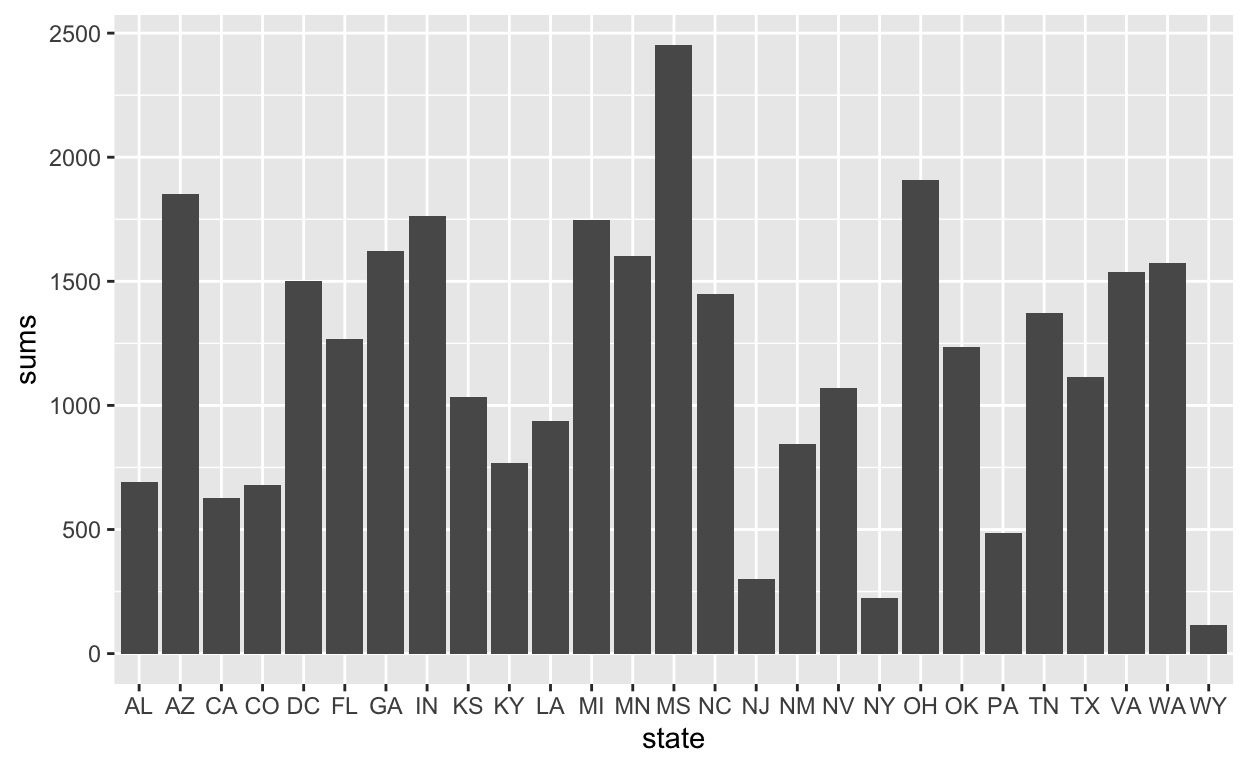
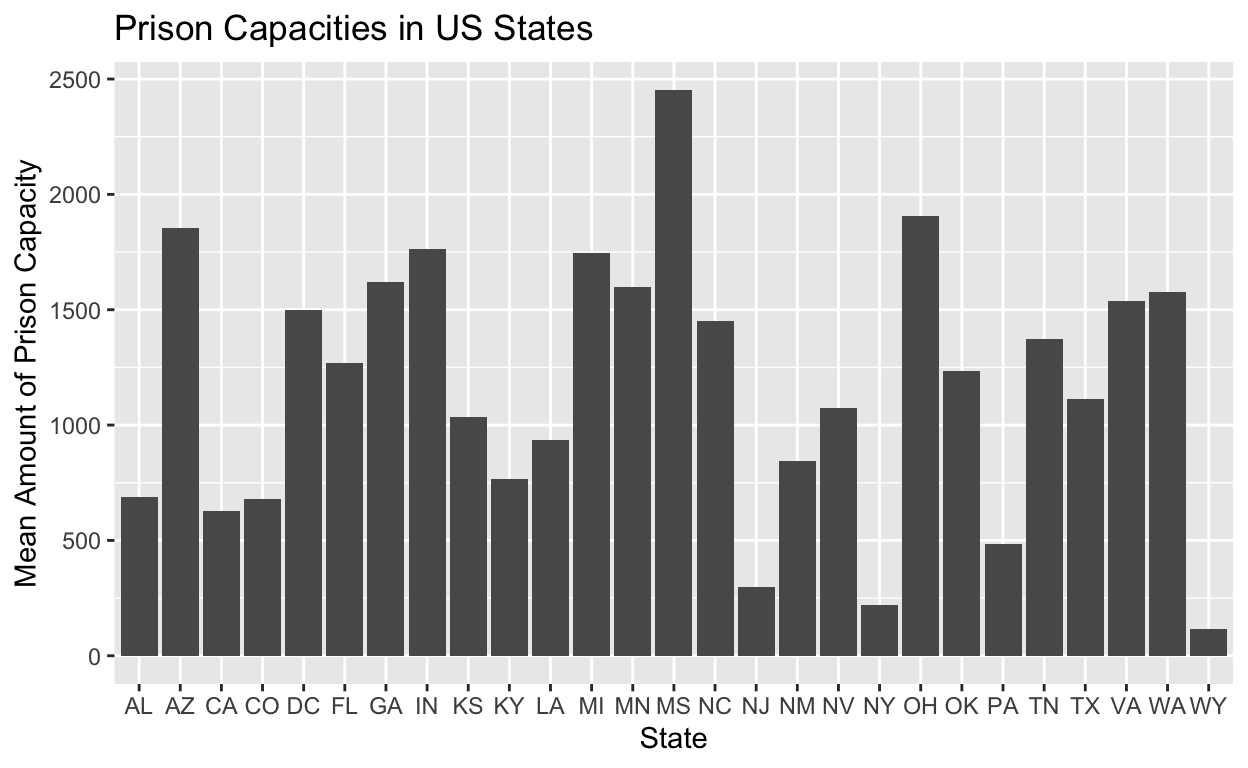
YEAHH

diff --git a/index.html b/index.html
@@ -1546,38 +1546,117 @@ code span.wa { color: #5e5e5e; font-style: italic; } /* Warning */
 <h2 id="historical-context">Historical Context:</h2>
 <p>In 1947, esteemed psychologists Dr. Kenneth Clark and Dr. Mamie Clark, the first African Americans to graduate from Columbia University with PhDs, conducted many doll tests and treated black youth at their independently founded center, the Northside Testing and Consultation Center. African American children in the area were found to have what the Clarks diagnosed as “Ingrained frustration,” which resulted from an early consciousness of race, understanding black or darker skin as inferior to white or lighter skin. These beliefs caused unruly behavior in young children like Peter, and the Clarks not only sought to discover the cause, but to find potential treatments. The Clarks found prejudice and discrimination like Jim Crow laws were damaging to the self-esteem of black youth, and therefore psychologically and emotionally harmed them. As a result of the Clarks’ studies, several treatments were found. These included increasing their literacy in addition to education surrounding African American culture.
 These findings align with recent statistics showing how black youth, especially boys, who weren’t reading at their reading level by 2nd grade would be almost guaranteed to be incarcerated before they turned 18. The legal suppression of literacy for black communities during slavery has left a legacy the youth are still fighting. In addition to that, the Clarks’ research reveals the intentional banning of books and curriculum that is representational and educational on topics of black culture is an attack on the psychological and mental health of black youth, since it was the very thing used as treatment in the study. It is important to note that for reasons like this, these tests were instrumental in revealing the horrors of academic racism in court cases like Brown v. Board of Education.
-In addition to working for a civil rights law firm, I have done organizing for prison abolitionist campaigns, and as a result of this and the reasons outlined above, I am interested in exploring data related to the school to prison pipeline, the education system, and criminal justice. This project will investigate the question: Is there any correlation between prison capacities and opinions on Critical Race Theory in US states.
-##</p>
-<p>##Research Question and Hypothesis:
-I will be analyzing the relationship between the capacities of prisons and people’s views on Critical Race Theory in school systems. We often discuss the school to prison pipeline, understanding statistics like Black males who aren’t reading at their grade level by 2nd grade, are almost guaranteed to fall victim to the prison system. With the recent attacks not just on education, but also on critical race theory, I am curious to see if there is any correlation between how much incarceration occurs in states/areas with a population who have adverse opinions on the teaching of slavery, civil war, and other topics.
-I will be using two data sets that are both loaded into R. One is a data set describing the presence of private prisons in the US throughout the last 30 years, their location, and their capacity. The other data set is a USA Today survey measuring wokeness, including a question about critical race theory.
+In addition to working for a civil rights law firm, I have done organizing for prison abolitionist campaigns, and as a result of this and the reasons outlined above, I am interested in exploring data related to the school to prison pipeline, the education system, and criminal justice. This project will investigate the question: Is there any correlation between prison capacities and opinions on Critical Race Theory in US states.</p>
+<h2 id="research-question-and-hypothesis">Research Question and Hypothesis:</h2>
+<p>I will be analyzing the relationship between the capacities of prisons and people’s views on Critical Race Theory in school systems. We often discuss the school to prison pipeline, understanding statistics like Black males who aren’t reading at their grade level by 2nd grade, are almost guaranteed to fall victim to the prison system. With the recent attacks not just on education, but also on critical race theory, I am curious to see if there is any correlation between how much incarceration occurs in states/areas with a population who have adverse opinions on the teaching of slavery, civil war, and other topics.
+I will be using two data sets that are both loaded into R. One is a data set describing the presence of private prisons in the US throughout the last 30 years, their location, and their capacity(<a href="https://www.annagunderson.com/data/private-prisons" class="uri">https://www.annagunderson.com/data/private-prisons</a>). The other data set is a USA Today survey measuring wokeness (<a href="https://ropercenter.cornell.edu/ipoll/study/31120147/questions#9af52f36-d878-442b-b4fd-11ee44a0ebb6" class="uri">https://ropercenter.cornell.edu/ipoll/study/31120147/questions#9af52f36-d878-442b-b4fd-11ee44a0ebb6</a>), including a question about critical race theory.
 The variables of the prison facilities analyzed will be the state and the design capacity of the prisons, and the variables of the other set will be the state and level of support. The outcome that will be analyzed is the amount of support in areas with high capacity prisons (more incarcerated individuals).
-I think I will find that the areas with the most prisons and with higher capacity prisons will result in less support for critical race theory, and I am interested in seeing if areas with more capacity will have less support than areas with more prisons.
-##</p>
-<p>##Prison Facilities Data Set
-| Name | Description |
-|——————-|————————————————————————————————————|
-|<code>facilityname</code> | Name of Facility |
-| <code>state</code> | The state the prison is found in abbreviated |
-| <code>year</code> | The year the data was collected |
-| <code>female</code> | Gender identity of the respondent (1 = female, 0 = male) |
-| <code>designcapacity</code> | Number of potential incarcerated |</p>
-<p>##Wokeness Survey Data Set
-| Name | Description |
-|——————-|————————————————————————————————————|
-| <code>BGC5_4</code> | Question of support for Critical Race Theory (Changed Strongly Support, Somewhat Support, Somewhat Oppose, and Strongly Oppose to 100, 75, 50, and 25) |
-| <code>ppstaten</code> | The state the respondent is from abbreviated |
-| <code>year</code> | The year the data was collected |
-| <code>female</code> | Gender identity of the respondent (1 = female, 0 = male) |
-| <code>designcapacity</code> | Number of potential incarcerated |
-##Combined Data Set
-| Name | Description |
-|——————-|————————————————————————————————————|
-| <code>ppstaten</code> | The state the respondant is from and the prison is found |
-| <code>n</code> | Mean value of support per state |
-| <code>prop_support</code> | proportion of support in regards to entire sample |
-| <code>sums</code> | Mean value of prison capacity per state |
-| <code>prop_capacity</code> | proportion of capacity in regards to entire sample |</p>
+I think I will find that the areas with the most prisons and with higher capacity prisons will result in less support for critical race theory, and I am interested in seeing if areas with more capacity will have less support than areas with more prisons.</p>
+<h2 id="prison-facilities-data-set">Prison Facilities Data Set</h2>
+<table>
+<colgroup>
+<col style="width: 14%" />
+<col style="width: 85%" />
+</colgroup>
+<thead>
+<tr class="header">
+<th>Name</th>
+<th>Description</th>
+</tr>
+</thead>
+<tbody>
+<tr class="odd">
+<td><code>facilityname</code></td>
+<td>Name of Facility</td>
+</tr>
+<tr class="even">
+<td><code>state</code></td>
+<td>The state the prison is found in abbreviated</td>
+</tr>
+<tr class="odd">
+<td><code>year</code></td>
+<td>The year the data was collected</td>
+</tr>
+<tr class="even">
+<td><code>female</code></td>
+<td>Gender identity of the respondent (1 = female, 0 = male)</td>
+</tr>
+<tr class="odd">
+<td><code>designcapacity</code></td>
+<td>Number of potential incarcerated</td>
+</tr>
+</tbody>
+</table>
+<h2 id="wokeness-survey-data-set">Wokeness Survey Data Set</h2>
+<table>
+<colgroup>
+<col style="width: 14%" />
+<col style="width: 85%" />
+</colgroup>
+<thead>
+<tr class="header">
+<th>Name</th>
+<th>Description</th>
+</tr>
+</thead>
+<tbody>
+<tr class="odd">
+<td><code>BGC5_4</code></td>
+<td>Question of support for Critical Race Theory (Changed Strongly Support, Somewhat Support, Somewhat Oppose, and Strongly Oppose to 100, 75, 50, and 25)</td>
+</tr>
+<tr class="even">
+<td><code>ppstaten</code></td>
+<td>The state the respondent is from abbreviated</td>
+</tr>
+<tr class="odd">
+<td><code>year</code></td>
+<td>The year the data was collected</td>
+</tr>
+<tr class="even">
+<td><code>female</code></td>
+<td>Gender identity of the respondent (1 = female, 0 = male)</td>
+</tr>
+<tr class="odd">
+<td><code>designcapacity</code></td>
+<td>Number of potential incarcerated</td>
+</tr>
+</tbody>
+</table>
+<h2 id="combined-data-set">Combined Data Set</h2>
+<table>
+<colgroup>
+<col style="width: 14%" />
+<col style="width: 85%" />
+</colgroup>
+<thead>
+<tr class="header">
+<th>Name</th>
+<th>Description</th>
+</tr>
+</thead>
+<tbody>
+<tr class="odd">
+<td><code>ppstaten</code></td>
+<td>The state the respondant is from and the prison is found</td>
+</tr>
+<tr class="even">
+<td><code>n</code></td>
+<td>Mean value of support per state</td>
+</tr>
+<tr class="odd">
+<td><code>prop_support</code></td>
+<td>proportion of support in regards to entire sample</td>
+</tr>
+<tr class="even">
+<td><code>sums</code></td>
+<td>Mean value of prison capacity per state</td>
+</tr>
+<tr class="odd">
+<td><code>prop_capacity</code></td>
+<td>proportion of capacity in regards to entire sample</td>
+</tr>
+</tbody>
+</table>
 <div class="layout-chunk" data-layout="l-body">
 <div class="sourceCode">
 <pre class="sourceCode r"><code class="sourceCode r"><span><span class='kw'><a href='https://rdrr.io/r/base/library.html'>library</a></span><span class='op'>(</span><span class='va'><a href='https://tidyverse.tidyverse.org'>tidyverse</a></span><span class='op'>)</span></span>
@@ -1602,7 +1681,12 @@ I think I will find that the areas with the most prisons and with higher capacit
 <span>  <span class='fu'><a href='https://dplyr.tidyverse.org/reference/mutate.html'>mutate</a></span><span class='op'>(</span>prop_support <span class='op'>=</span> <span class='va'>n</span> <span class='op'>/</span> <span class='fu'><a href='https://rdrr.io/r/base/sum.html'>sum</a></span><span class='op'>(</span><span class='va'>n</span><span class='op'>)</span><span class='op'>)</span></span>
 <span> </span>
 <span><span class='va'>critical0</span> <span class='op'>|&gt;</span> <span class='fu'><a href='https://ggplot2.tidyverse.org/reference/ggplot.html'>ggplot</a></span><span class='op'>(</span><span class='fu'><a href='https://ggplot2.tidyverse.org/reference/aes.html'>aes</a></span><span class='op'>(</span>x <span class='op'>=</span> <span class='va'>ppstaten</span>, y <span class='op'>=</span> <span class='va'>n</span><span class='op'>)</span><span class='op'>)</span> <span class='op'>+</span></span>
-<span>  <span class='fu'><a href='https://ggplot2.tidyverse.org/reference/geom_bar.html'>geom_col</a></span><span class='op'>(</span><span class='op'>)</span></span></code></pre>
+<span>  <span class='fu'><a href='https://ggplot2.tidyverse.org/reference/geom_bar.html'>geom_col</a></span><span class='op'>(</span><span class='op'>)</span> <span class='op'>+</span></span>
+<span>  <span class='fu'><a href='https://ggplot2.tidyverse.org/reference/labs.html'>labs</a></span><span class='op'>(</span></span>
+<span>    title <span class='op'>=</span> <span class='st'>"Critical Race Theory Support in US States"</span>,</span>
+<span>    x <span class='op'>=</span> <span class='st'>"State"</span>,</span>
+<span>    y <span class='op'>=</span> <span class='st'>"Mean Amount of Support"</span> </span>
+<span>  <span class='op'>)</span></span></code></pre>
 </div>
 <img src="index_files/figure-html5/unnamed-chunk-1-1.png" width="624" />
 <div class="sourceCode">
@@ -1618,7 +1702,12 @@ I think I will find that the areas with the most prisons and with higher capacit
 <span></span>
 <span></span>
 <span><span class='va'>yearelect</span> <span class='op'>|&gt;</span> <span class='fu'><a href='https://ggplot2.tidyverse.org/reference/ggplot.html'>ggplot</a></span><span class='op'>(</span><span class='fu'><a href='https://ggplot2.tidyverse.org/reference/aes.html'>aes</a></span><span class='op'>(</span>x <span class='op'>=</span> <span class='va'>state</span>, y <span class='op'>=</span> <span class='va'>sums</span><span class='op'>)</span><span class='op'>)</span> <span class='op'>+</span></span>
-<span>  <span class='fu'><a href='https://ggplot2.tidyverse.org/reference/geom_bar.html'>geom_col</a></span><span class='op'>(</span><span class='op'>)</span></span></code></pre>
+<span>  <span class='fu'><a href='https://ggplot2.tidyverse.org/reference/geom_bar.html'>geom_col</a></span><span class='op'>(</span><span class='op'>)</span> <span class='op'>+</span> </span>
+<span>  <span class='fu'><a href='https://ggplot2.tidyverse.org/reference/labs.html'>labs</a></span><span class='op'>(</span></span>
+<span>     title <span class='op'>=</span> <span class='st'>"Prison Capacities in US States"</span>,</span>
+<span>    x <span class='op'>=</span> <span class='st'>"State"</span>,</span>
+<span>    y <span class='op'>=</span> <span class='st'>"Mean Amount of Prison Capacity"</span>  </span>
+<span>  <span class='op'>)</span></span></code></pre>
 </div>
 <img src="index_files/figure-html5/unnamed-chunk-1-2.png" width="624" />
 <div class="sourceCode">
@@ -1770,6 +1859,10 @@ F-statistic: 5.302 on 1 and 25 DF,  p-value: 0.0299</code></pre>
 </tbody>
 </table>
 </div>
+<ol start="4" type="1">
+<li>a brief (one paragraph) concluding section that summarizes your results, assesses the extent to which you find support for your hypothesis, describes limitations of your analysis and threats to inference, and states how your analysis could be improved (e.g., improved data that would be useful to collect).</li>
+</ol>
+<p>For the data section, you should note if your research design is cross-sectional (most projects will be of this type) or one of the other designs we discussed (randomized experiment, before-and-after, differences-in-differences). For the results section, you should interpret (in plain English) the main coefficient of interest in your regression. You should also comment on the statistical significance of the estimated coefficient and whether or not you believe the coefficient to represent a causal effect.</p>
 <div class="sourceCode" id="cb3"><pre class="sourceCode r distill-force-highlighting-css"><code class="sourceCode r"></code></pre></div>
 <!--radix_placeholder_article_footer-->
 <!--/radix_placeholder_article_footer-->
